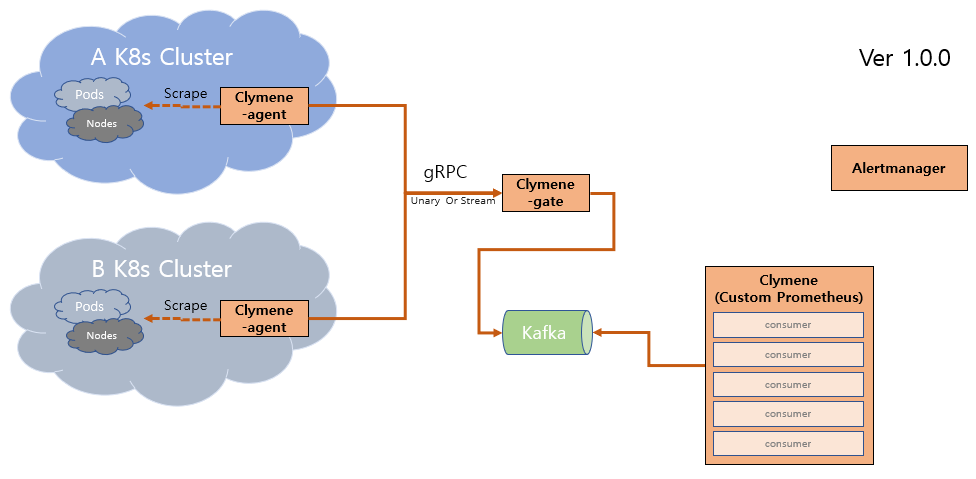
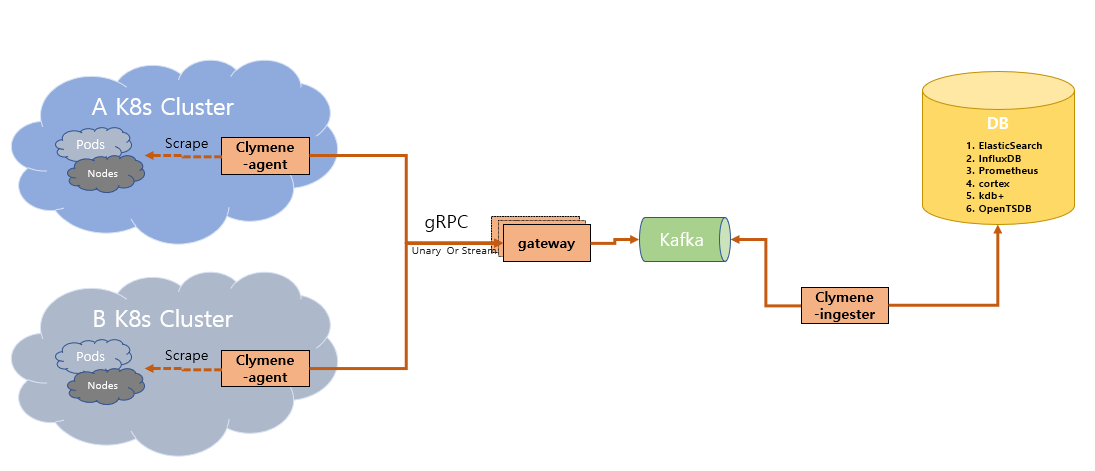
change concept

diff --git a/README.md b/README.md
@@ -2,15 +2,10 @@
 
 Clymene is the mother of Prometheus in Greek and Roman mythology. The Clymene project, inspired by the Prometheus project(https://prometheus.io/). It will be developed as an agent by separating scrape parts from the time series data collection method of the prometheus project. the resource consumption of agents will be very small. The data collection architecture using an agent becomes an architecture that can collect data from various environments and retrieve it from a single backend. For example, you can collect time series data from multiple Kubernetes(k8s) clusters to view results of queries from the single backend. In addition, notification is possible using time series data collected from multiple environments. Clymene will be used for monitoring various environments and is a suitable architecture for integrated monitoring.  
 
-furthermore, it will be improving Clymene's back-end architecture to a scalable scale-out architecture(after version 2.0.0).  
 
 # Architecture  
-### Release 1.0.0 (AS-IS)  
+### Release 1.0.0   
 ![Release 1.0.0.png](docs/images/architecture_v1.0.0.png)
-
-### Release 2.0.0 (TO-BE)  
-![Release 2.0.0.png](docs/images/architecture_v2.0.0.png)
-
 
 # Code Style
 #### 1. https://github.com/golang/go/wiki/CodeReviewComments  
